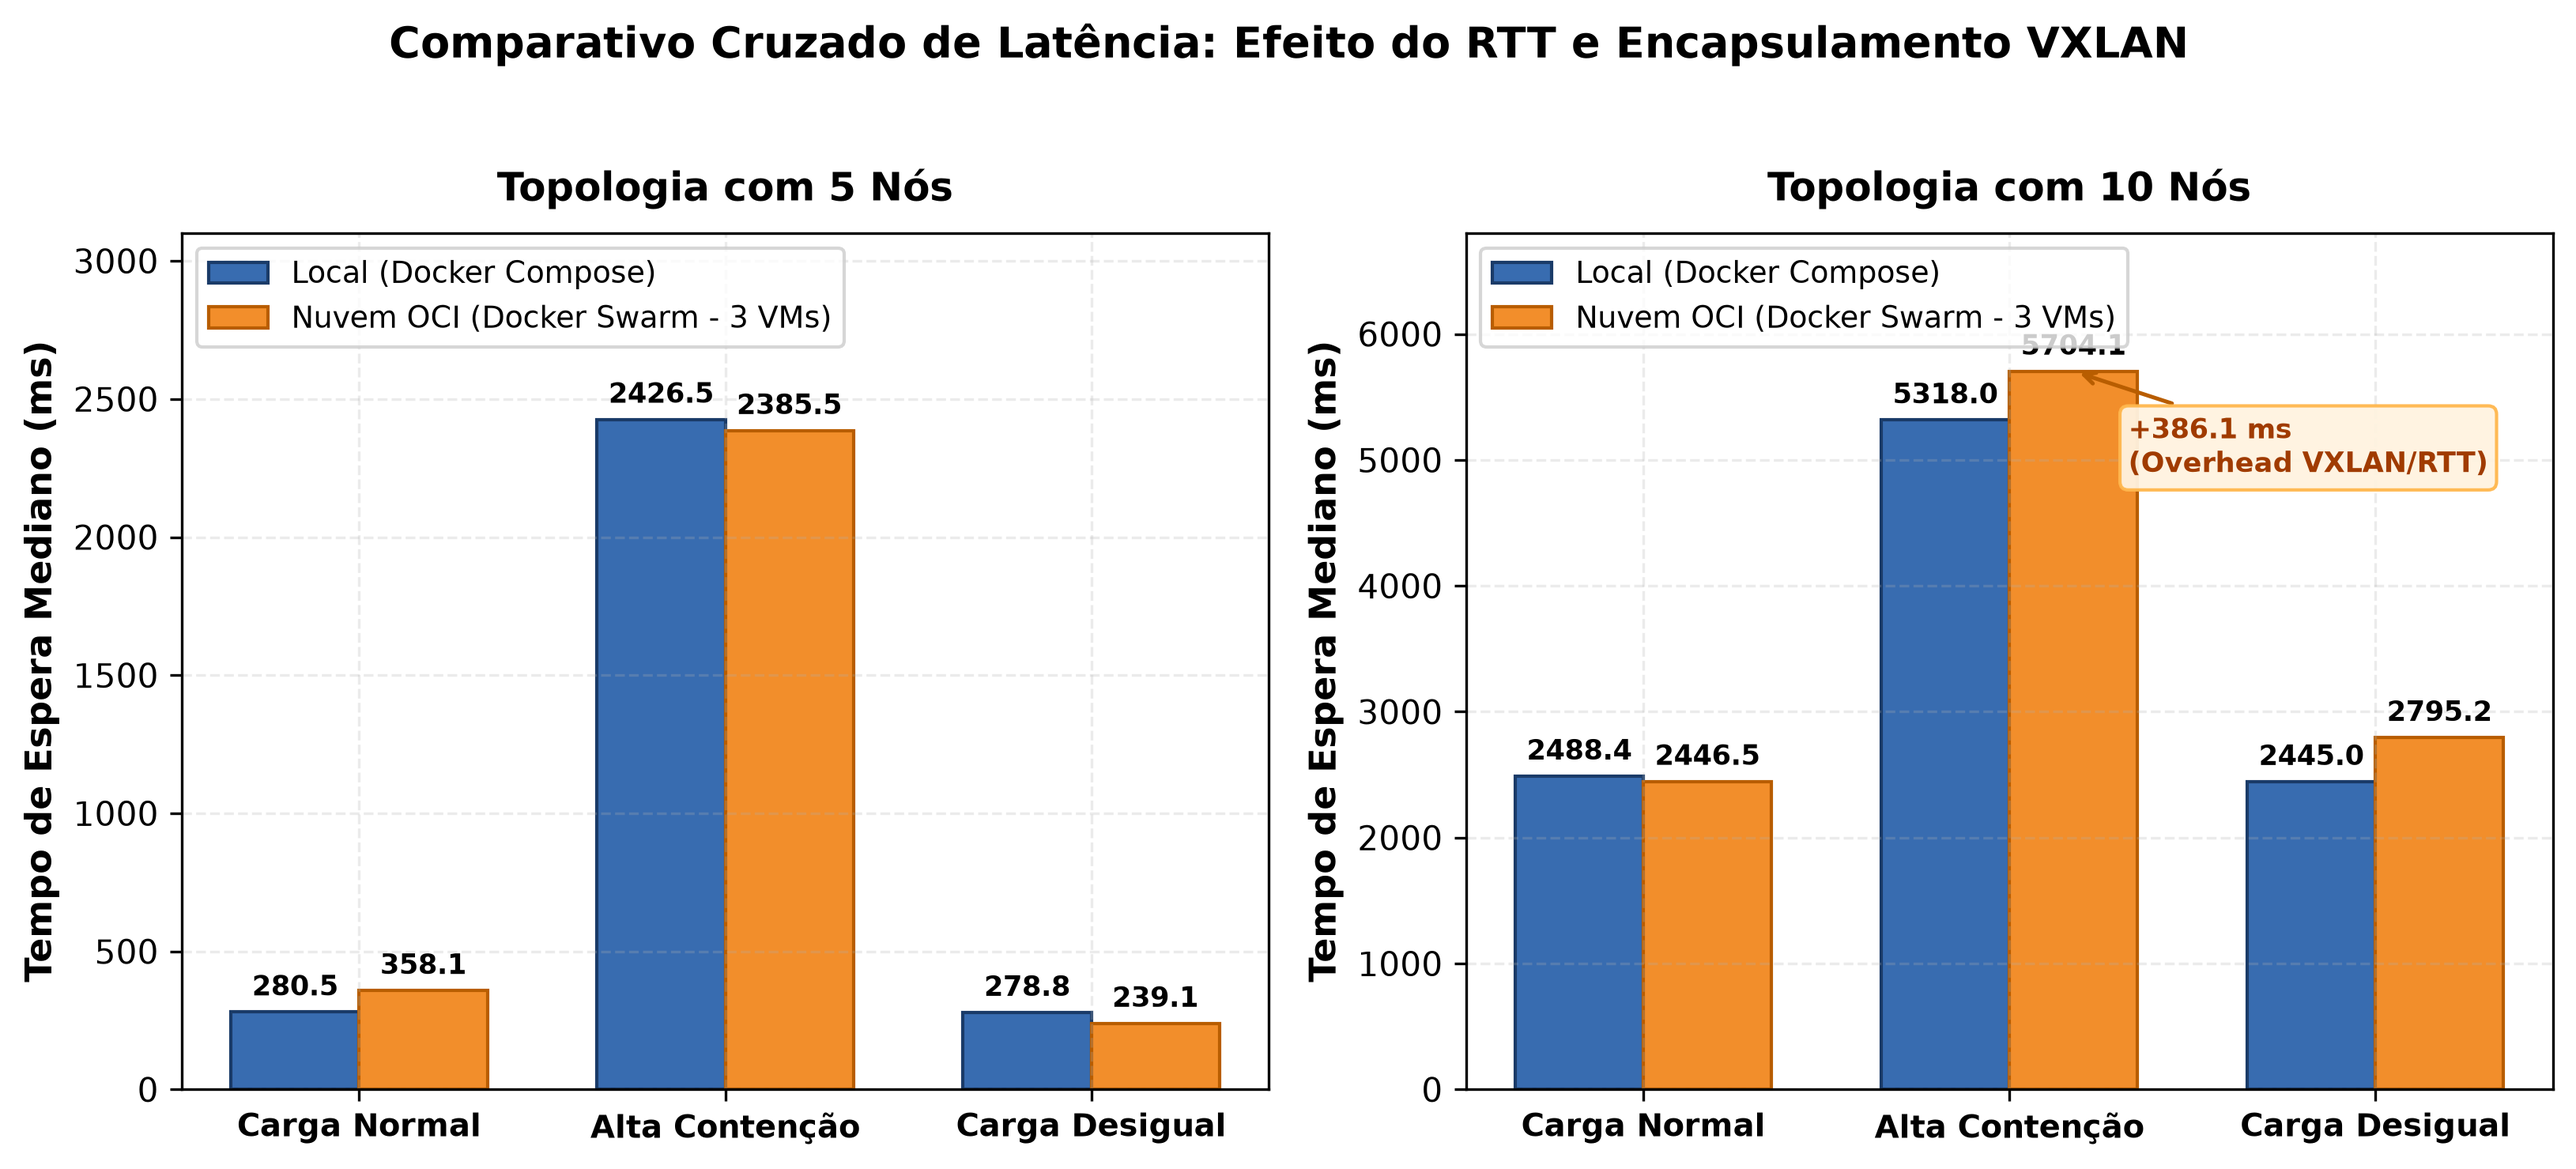
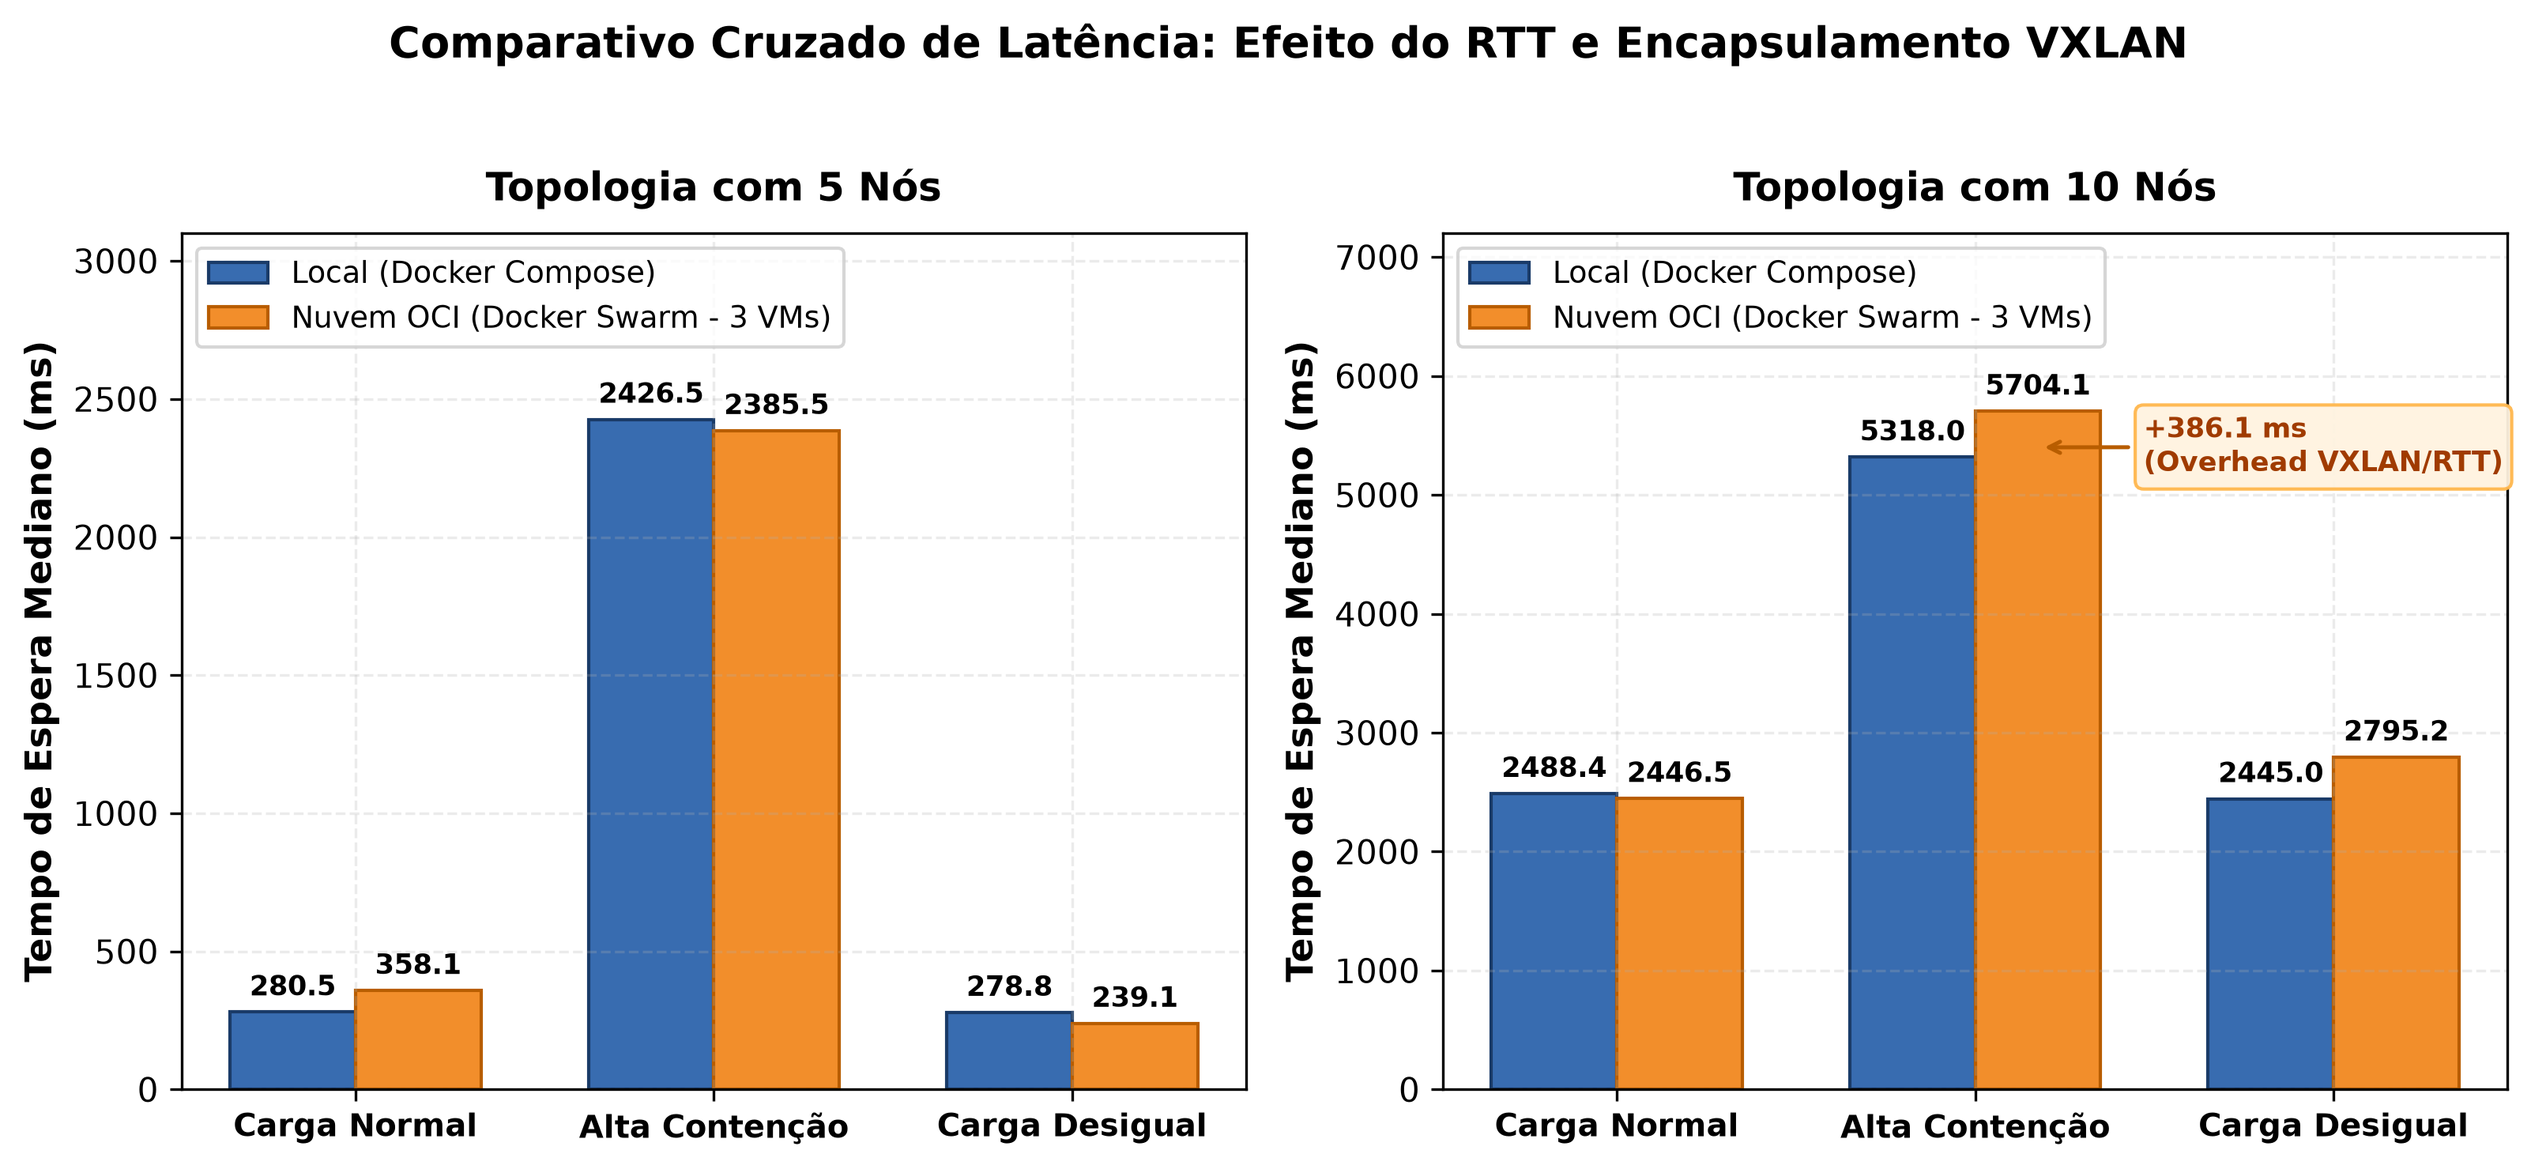
docs(cross-analysis): explain serialized RTT accumulation and refine chart 4 layout

diff --git a/results/generate_charts.py b/results/generate_charts.py
@@ -344,10 +344,10 @@ def plot_cross_comparison():
                          xytext=(0, 3), textcoords="offset points",
                          ha="center", va="bottom", fontsize=8.5, fontweight="bold")
 
-    # Destaque do Overhead VXLAN na Alta Contenção de 10 nós
+    # Destaque do Overhead VXLAN na Alta Contenção de 10 nós (com espaçamento limpo)
     delta_vxlan = swm_10[1] - loc_10[1]
     ax2.annotate(f"+{delta_vxlan:.1f} ms\n(Overhead VXLAN/RTT)",
-                 xy=(x[1] + width/2, swm_10[1]), xytext=(x[1] + width/2 + 0.15, swm_10[1] - 800),
+                 xy=(x[1] + width/2, 5400), xytext=(x[1] + width + 0.12, 5200),
                  arrowprops=dict(arrowstyle="->", color="#b85d00", lw=1.2),
                  bbox=dict(boxstyle="round,pad=0.3", fc="#fff3e0", ec="#ffb74d", alpha=0.95),
                  fontsize=8.5, fontweight="bold", color="#a03b00")
@@ -356,7 +356,7 @@ def plot_cross_comparison():
     ax2.set_ylabel("Tempo de Espera Mediano (ms)")
     ax2.set_xticks(x)
     ax2.set_xticklabels(scenarios, fontsize=9.5, fontweight="bold")
-    ax2.set_ylim(0, 6800)
+    ax2.set_ylim(0, 7200)
     ax2.legend(loc="upper left", fontsize=9)
 
     fig.suptitle("Comparativo Cruzado de Latência: Efeito do RTT e Encapsulamento VXLAN", fontsize=13, y=1.02, fontweight="bold")

diff --git a/README.md b/README.md
@@ -464,11 +464,17 @@ A comparação direta entre os dados coletados no host de desenvolvimento (Local
 - **Fundamentação:** Isso valida que a complexidade de mensagens do algoritmo de Naimi–Tréhel é uma propriedade **puramente lógica e topológica**, dependente unicamente do grafo em árvore e da sequência estocástica de pedidos, mantendo-se rigorosamente invariante independentemente da infraestrutura física subjacente.
 
 #### 2. Efeito do RTT Real e Encapsulamento de Rede VXLAN
-- Enquanto no ambiente local a comunicação ocorre via ponte de software (`bridge`) com latência na ordem de microssegundos ($< 0{,}1\text{ ms}$), na nuvem os pacotes transitam pelas interfaces físicas das instâncias OCI e passam pela camada de encapsulamento **VXLAN (UDP 4789)** da rede `overlay` do Docker Swarm.
-- **Impacto no Tempo de Espera Mediano (Alta Contenção - 10 nós):**
-  - Local: **5.317,99 ms**
-  - Nuvem: **5.704,11 ms** (+386,12 ms)
-  - O aumento de ~386 ms na fila com 10 participantes sob contenção contínua reflete diretamente o custo cumulativo do Round-Trip Time (RTT) e do processamento de rede nas 3 VMs distintas à medida que `REQUEST` e `TOKEN` percorrem múltiplos nós físicos.
+- **Diferença Estrutural de Comunicação:** Enquanto no ambiente local a comunicação ocorre via ponte de software (`bridge`) em memória RAM com latência quase nula ($< 0{,}05\text{ ms}$), na nuvem os pacotes transitam pelas interfaces físicas das 3 instâncias OCI e passam pela camada de encapsulamento **VXLAN (UDP 4789)** da rede `overlay` do Docker Swarm.
+- **Por que o Overhead só se Manifesta Expressivamente em 10 Nós?**
+  - **Serialização Cumulativa na Fila Cheia (Alta Contenção):**
+    - Em *Carga Normal*, a fila `next_queue` quase sempre está vazia ou contém apenas 1 nó, de modo que o RTT de rede não se acumula.
+    - Em *Alta Contenção com 10 nós*, a fila permanece permanentemente cheia com os **9 nós concorrentes**. Como a concessão da Seção Crítica é estritamente sequencial, o atraso de rede (RTT físico + encapsulamento VXLAN) não é paralelo, mas **serializado ao longo dos 9 predecessores**:
+      $$\Delta T_{\text{espera}} = \sum_{k=1}^{9} \left( \text{RTT}_{\text{inter-VM}}^{(k)} + \text{Overhead}_{\text{VXLAN}}^{(k)} \right) \approx +386{,}12\text{ ms}$$
+    - Isso elevou a espera mediana de **5.317,99 ms** (Local) para **5.704,11 ms** (Nuvem OCI).
+  - **Tráfego Cruzado Inter-VM Contínuo (Carga Desigual):**
+    - Em *Carga Desigual com 10 nós*, o tráfego em rajada gerado por `client1` na VM1 exigiu sucessivas trocas de mensagens com os outros 9 nós distribuídos nas VMs 2 e 3, gerando um acréscimo de **$+350{,}21\text{ ms}$** na nuvem (**2.445,04 ms** no Local vs. **2.795,25 ms** na Nuvem).
+  - **Contraste com a Topologia de 5 Nós:**
+    - Em 5 nós, cerca de $40\%$ dos contêineres estavam co-alocados na mesma VM (comunicação intra-host sem trânsito externo) e a fila sob contenção possuía apenas 4 predecessores, tornando o atraso cumulativo insignificante diante do tempo de serviço na SC.
 
 <p align="center">
   <img src="results/charts/04_overhead_rede_local_vs_nuvem.png" alt="Comparativo de Latência de Espera: Local vs. Nuvem OCI" width="850">
